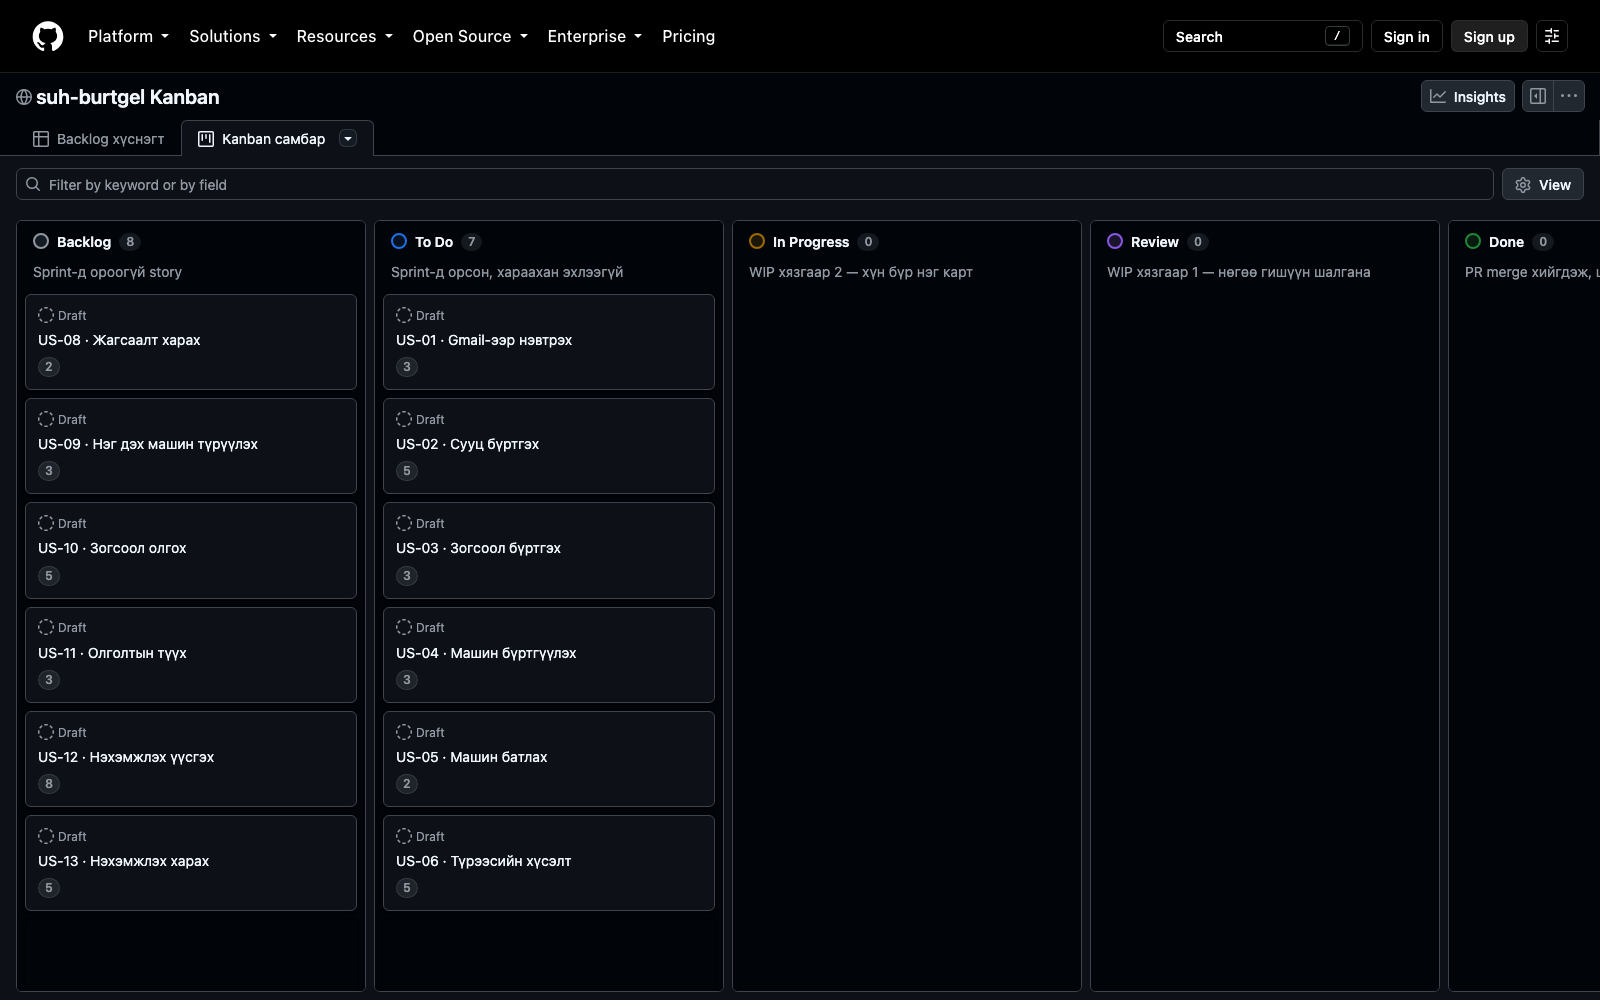
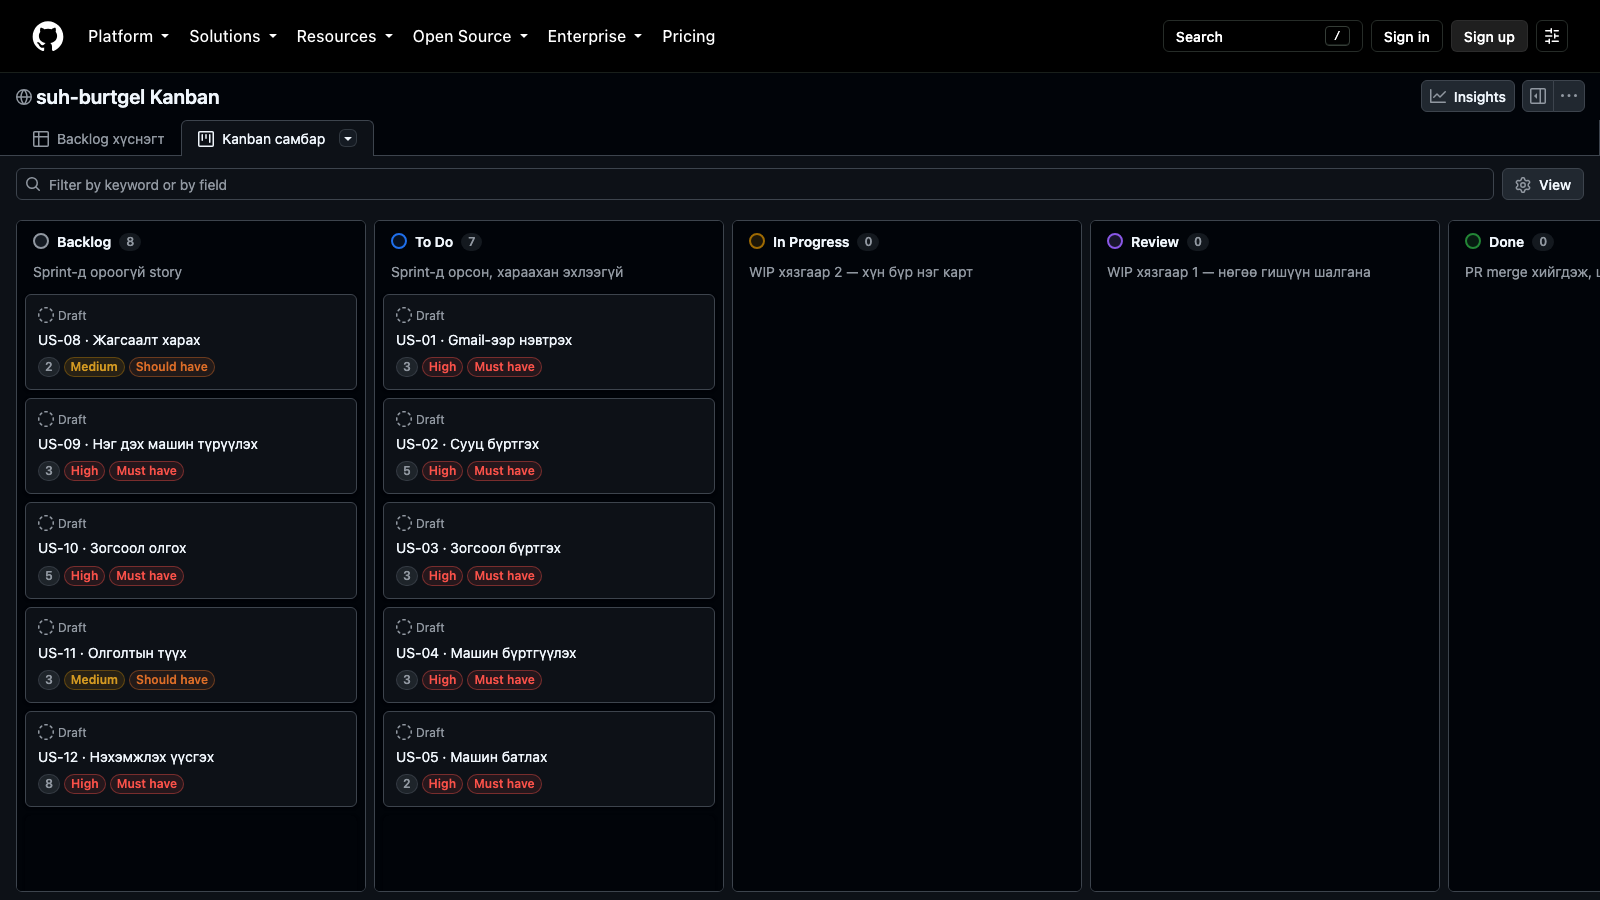
Лаб 4: самбарт Priority, MoSCoW талбар нэмэв

diff --git a/docs/lab4.md b/docs/lab4.md
@@ -52,7 +52,7 @@ In Progress баганад 2, Review баганад 1 карт байгаа ту
 
 - **Status** талбарын утга: Backlog, To Do, In Progress, Review, Done. Багана бүрийн тайлбарт WIP хязгаар, шилжих нөхцөлийг бичив.
 - In Progress баганад 2, Review баганад 1 гэсэн хязгаарыг баганын цэсний **Set limit**-ээр тавина.
-- Нэмэлт талбар: **SP** (Number), **Эхэлсэн** (Date), **Дууссан** (Date).
+- Нэмэлт талбар: **SP** (Number), **Эхэлсэн** (Date), **Дууссан** (Date), **Priority** (High / Medium / Low), **MoSCoW** (Must / Should / Could / Won't have). Priority, MoSCoW-ийн утгыг Лаб 2-ын backlog-оос авав.
 - `backlog.csv`-ийн 15 story-г карт болгон нэмэв. Sprint 1-ийн US-01 … US-07 To Do баганад, бусад нь Backlog баганад байна.
 - «Kanban самбар» (Board), «Backlog хүснэгт» (Table) гэсэн хоёр харагдацтай. Project нийтэд нээлттэй.
 
